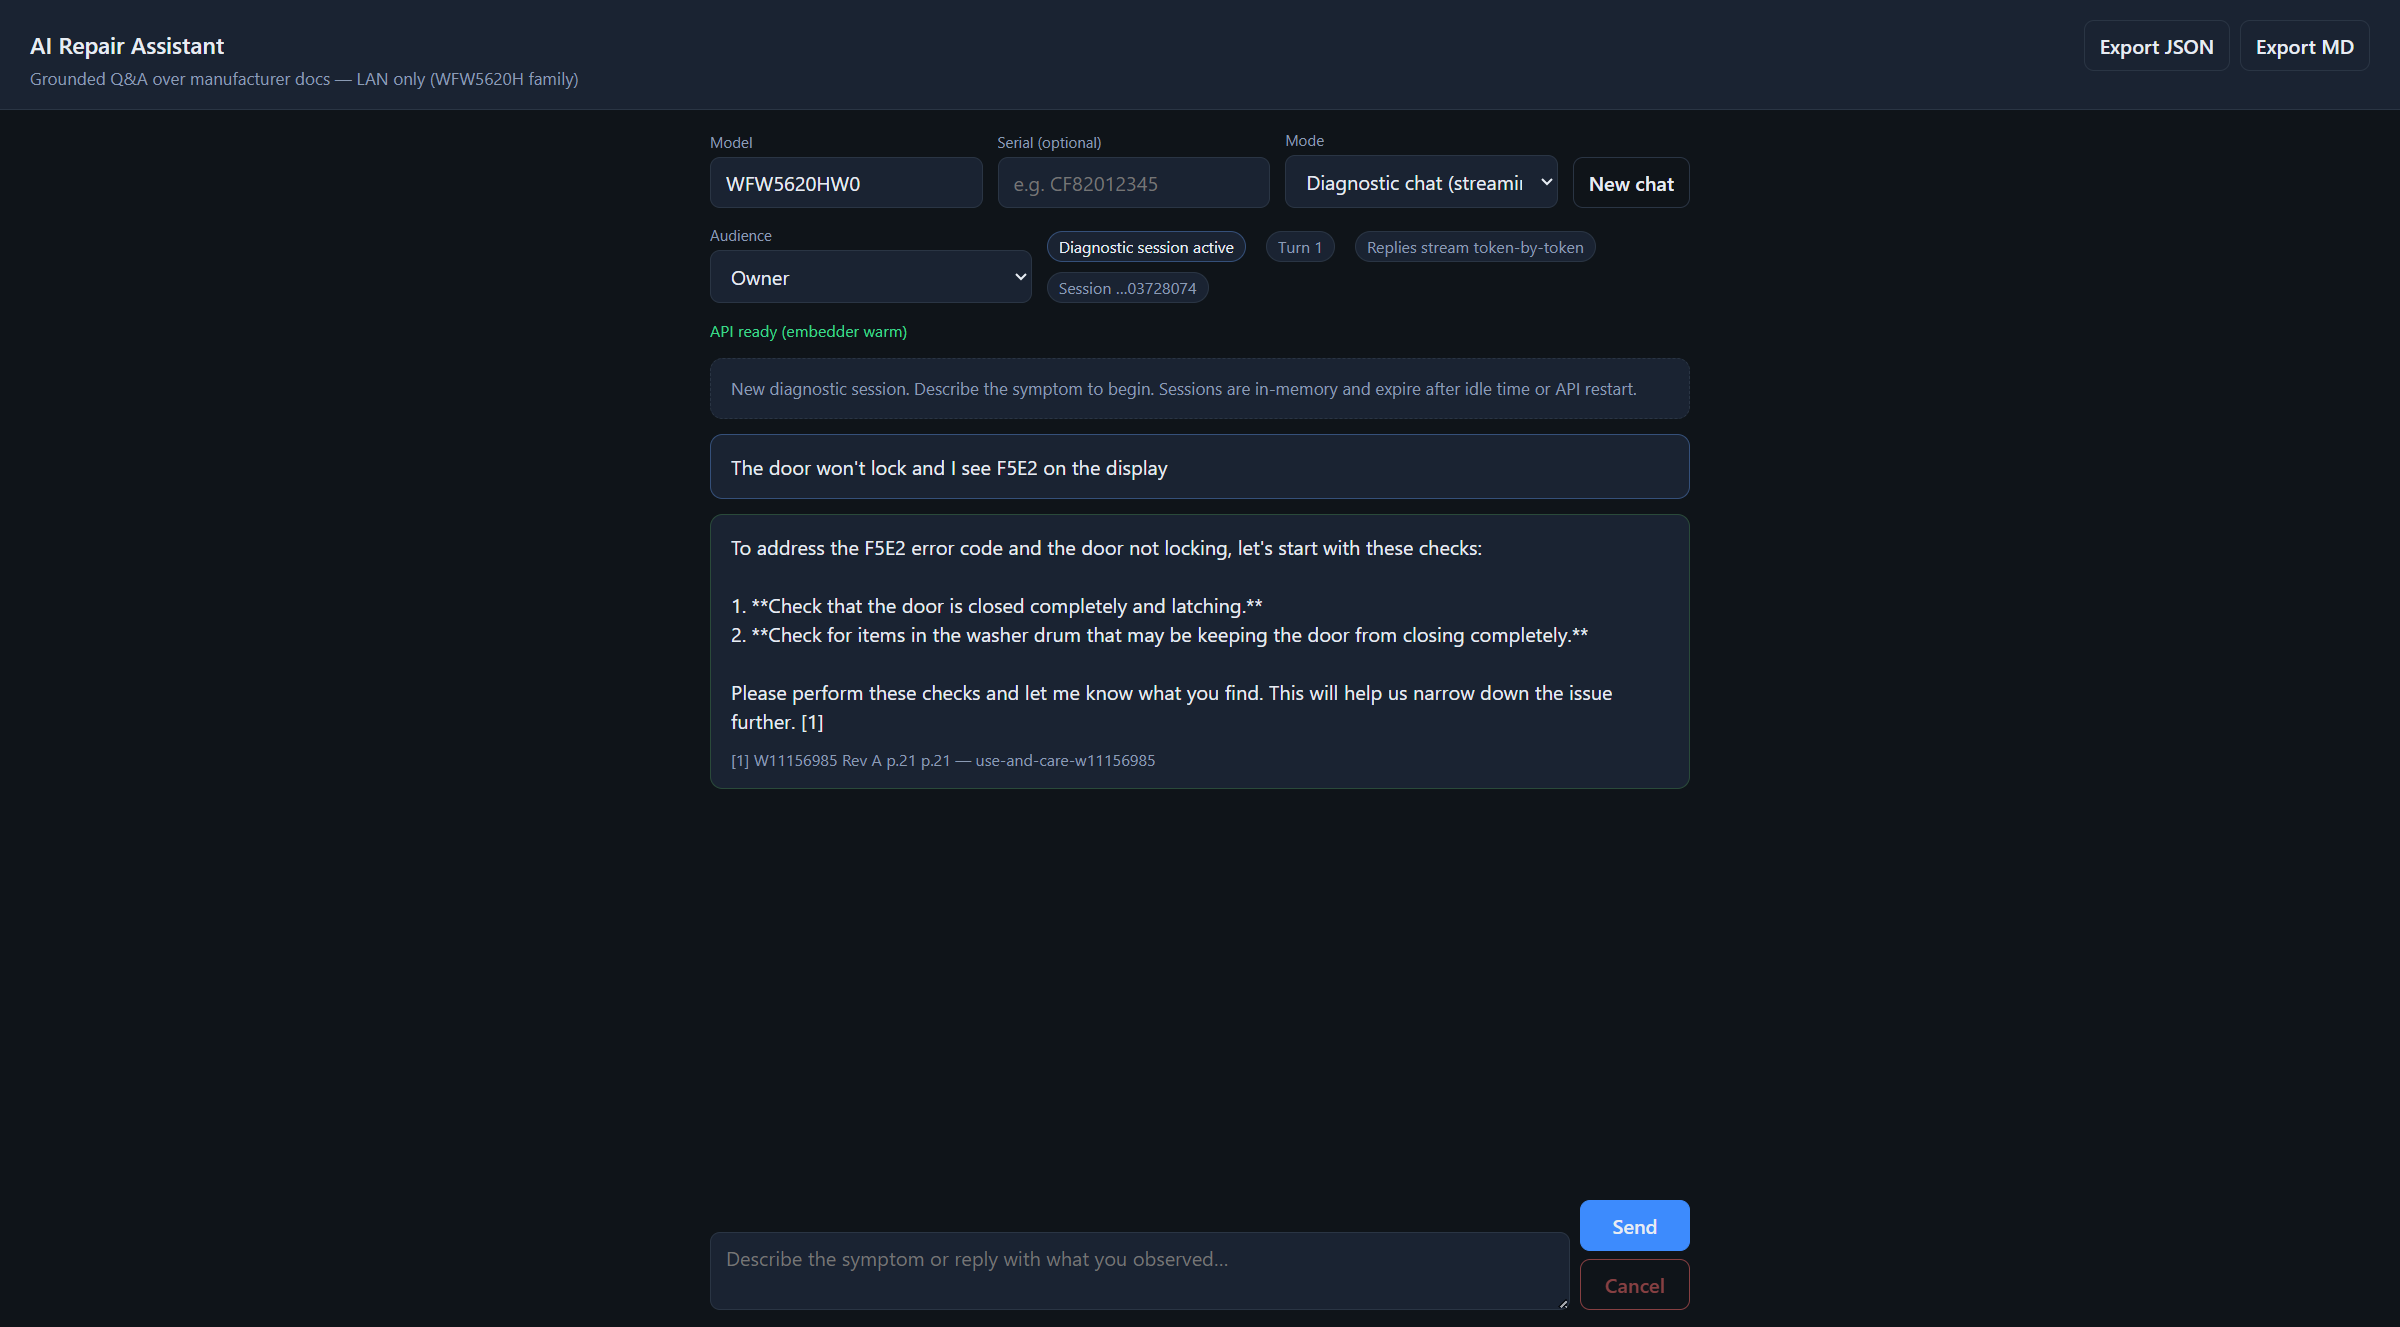
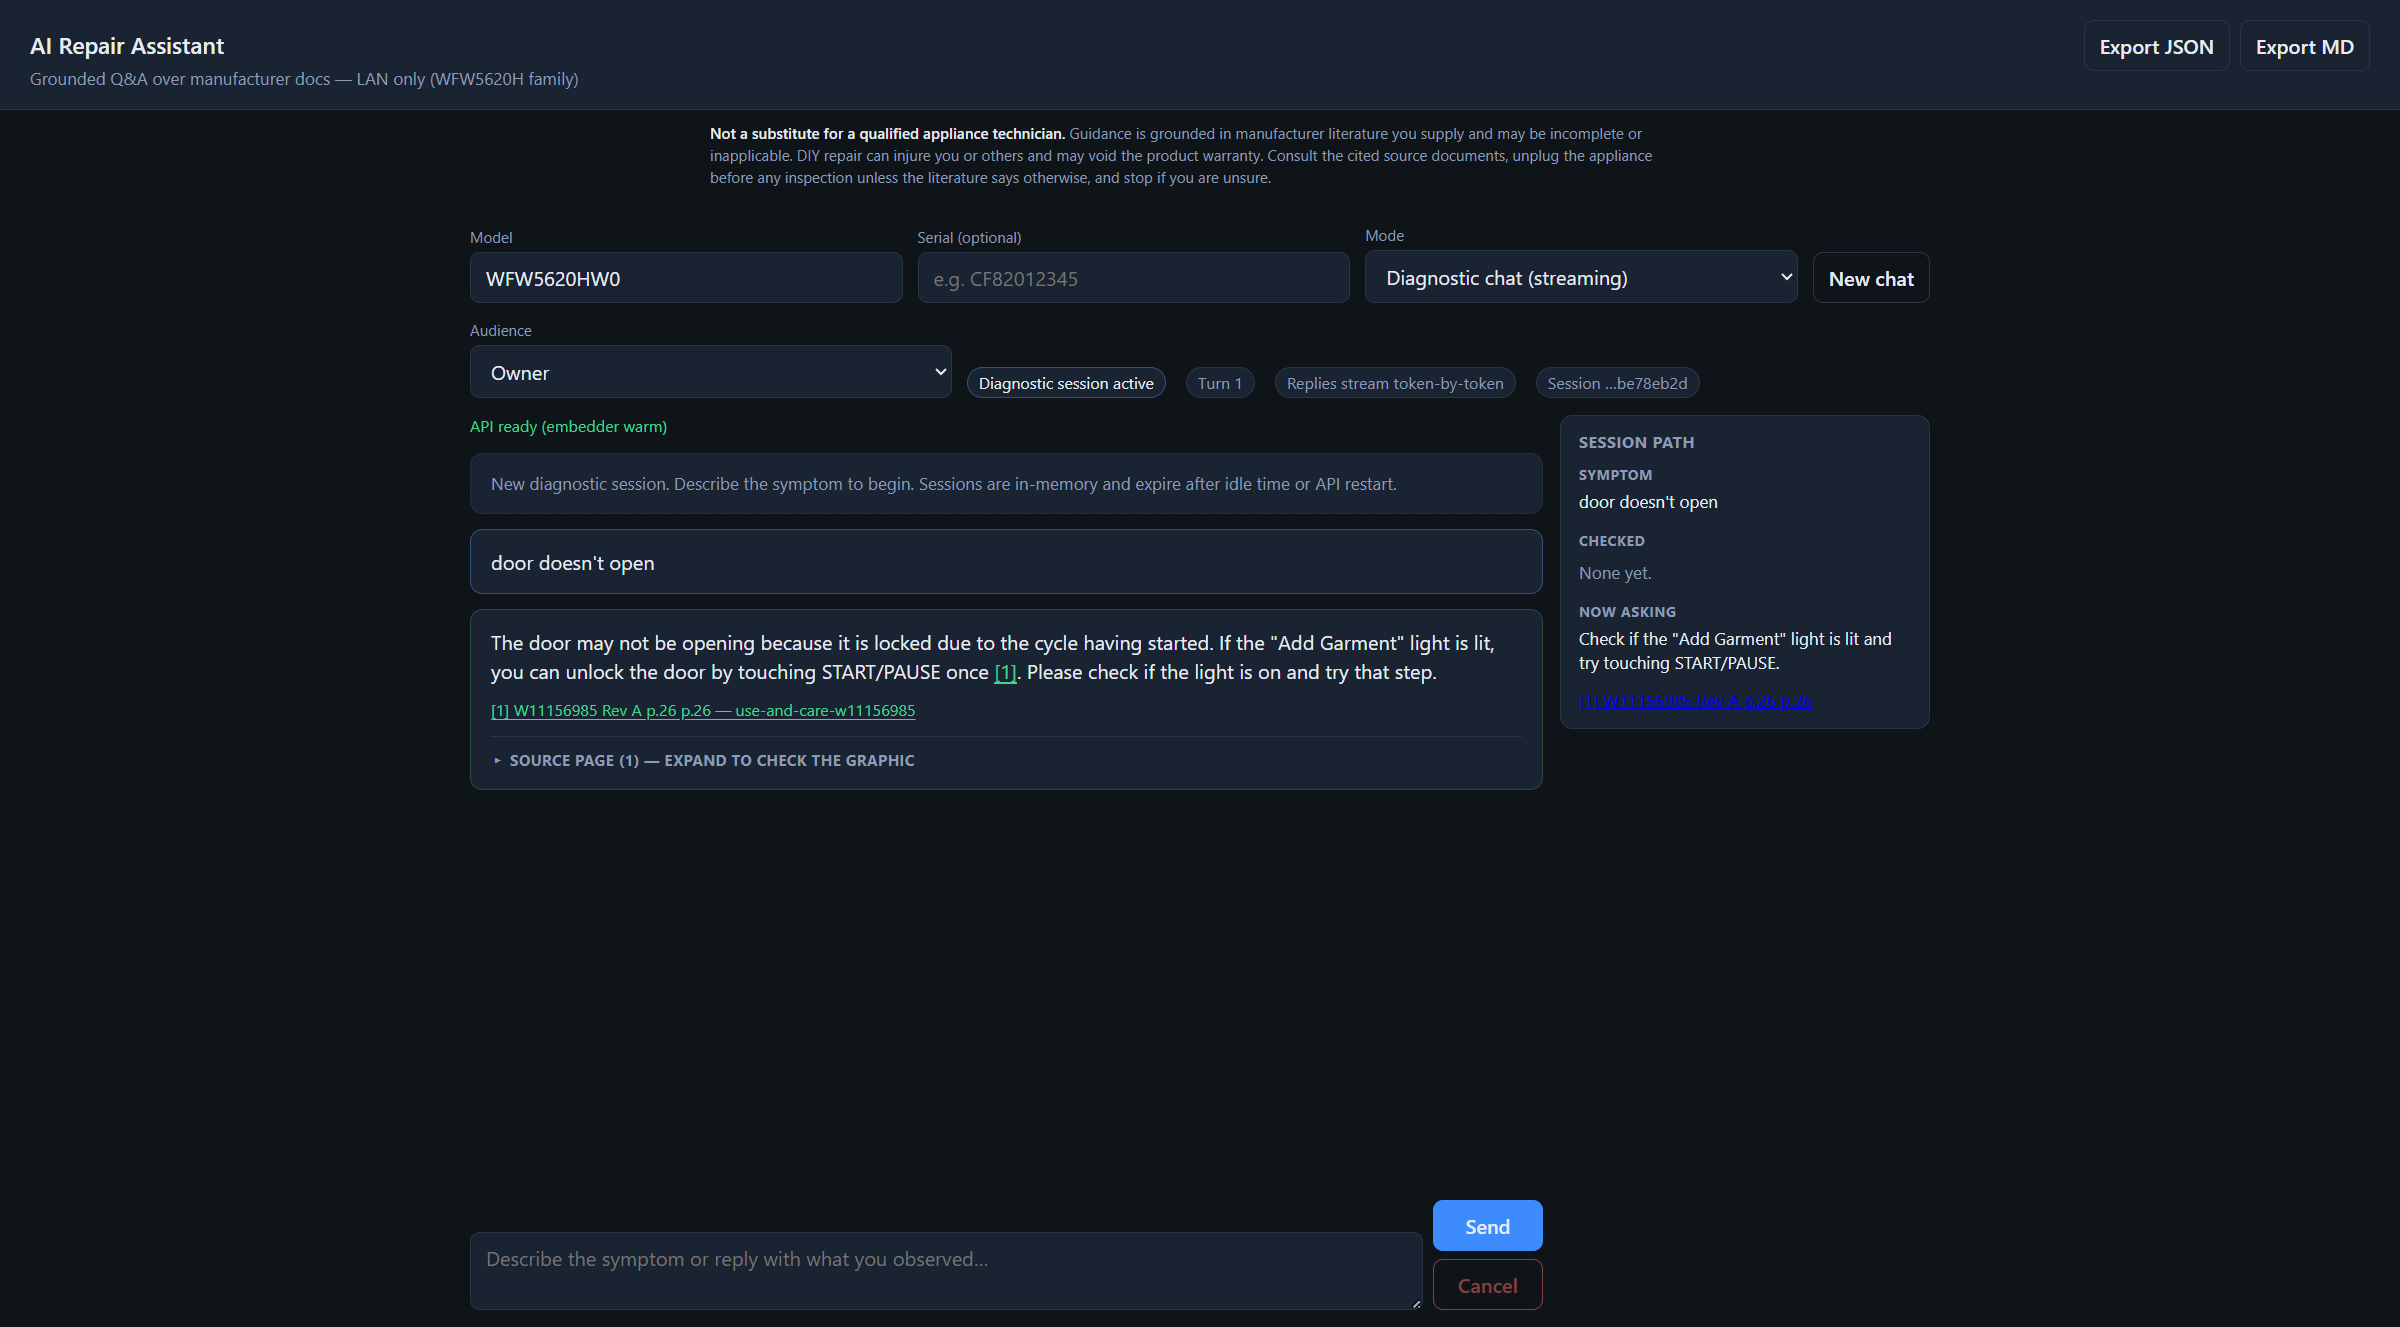
Refresh README diagnose screenshots for the session tally and page highlight.
Replace the old checklist shots with live /ui captures of the path panel, a follow-up with cleared checks, and the cited source-page overlay.

diff --git a/README.md b/README.md
@@ -53,7 +53,7 @@ flowchart LR
 - **Parsing** — hybrid page router (matrix / TOC / schematic / photo-access / multi-column), quality overrides ([ADR-0024](docs/adr/0024-hybrid-parse-architecture.md))
 - **Chunking** — table-row / matrix / contextual enrichment; Guide #1 title-case or ALL-CAPS anchors ([ADR-0007](docs/adr/0007-parser-and-chunker.md), [ADR-0022](docs/adr/0022-contextual-chunk-enrichment.md), [ADR-0042](docs/adr/0042-guide1-anchor-and-checklist-coalesce.md))
 - **Retrieval** — vector + codes/connectors, applicability, owner-preferring literature when feasible; door polarity is grammar, not slang YAML; same-problem rows coalesce into one citation ([ADR-0010](docs/adr/0010-retrieval-applicability.md), [ADR-0040](docs/adr/0040-door-polarity-grammar.md), [ADR-0041](docs/adr/0041-unlock-family-no-fault-code.md), [ADR-0042](docs/adr/0042-guide1-anchor-and-checklist-coalesce.md))
-- **Grounded Q&A / diagnose** — citations, abstain, checklist path discipline, gated source-page overlay ([ADR-0012](docs/adr/0012-grounded-qa.md), [ADR-0013](docs/adr/0013-langgraph-diagnostic.md), [ADR-0036](docs/adr/0036-ui-source-page-images.md))
+- **Grounded Q&A / diagnose** — citations, abstain, checklist path discipline, gated source-page overlay and row/prose highlight, diagnose session tally ([ADR-0012](docs/adr/0012-grounded-qa.md), [ADR-0013](docs/adr/0013-langgraph-diagnostic.md), [ADR-0036](docs/adr/0036-ui-source-page-images.md)–[ADR-0038](docs/adr/0038-paragraph-highlight.md), [ADR-0044](docs/adr/0044-diagnose-session-tally.md))
 - **Safety** — block / escalate / post-LLM gates; owner vs technician ([ADR-0014](docs/adr/0014-safety-policy.md))
 - **Improve from traces** — Langfuse → `mine-traces` reports → human promote ([ADR-0018](docs/adr/0018-langfuse-observability.md), [ADR-0023](docs/adr/0023-trace-driven-eval-mining.md))
 
@@ -71,15 +71,21 @@ Grounded one-shot Q&A with numbered citation chips tied to manifest documents.
 
 ### Diagnose — owner checklist (turn 1)
 
-Multi-turn LangGraph diagnostic chat: session badge, streaming checklist steps, owner-safe citations.
+Session path tally (symptom, offered checks, citation chip), coalesced checklist, and the gated source page with a row highlight.
 
-![Owner diagnostic chat with checklist and citations](docs/images/ui-diagnose-checklist.png)
+![Owner diagnostic chat with session tally and source-page highlight](docs/images/ui-diagnose-checklist.png)
 
-### Diagnose — technician multi-turn (turn 2)
+### Diagnose — progress follow-up (turn 2)
 
-Same session, **Technician** audience: follow-up narrows to service-manual steps (continuity, wiring) with tech-sheet citations.
+After “checked / no issues,” the tally moves those steps to **Checked** and keeps the same `[n]` while the chat continues the path.
 
-![Technician multi-turn diagnostic chat at turn 2](docs/images/ui-diagnose-tech-multiturn.png)
+![Diagnose follow-up with cleared checks on the session path](docs/images/ui-diagnose-tech-multiturn.png)
+
+### Diagnose — source-page highlight
+
+Click `[n]` or expand Source page to overlay the cited table row or prose span on the same JPEG the model saw.
+
+![Source page with cited-row highlight and session path](docs/images/ui-diagnose-highlight.png)
 
 ### Safety — escalate before unsafe guidance
 

diff --git a/docs/architecture/05-runtime-ask-diagnose.md b/docs/architecture/05-runtime-ask-diagnose.md
@@ -118,7 +118,7 @@ flowchart TD
 - **State:** Messages, appliance, evidence, citation pool, abstain / escalate flags ([ADR-0013](../adr/0013-langgraph-diagnostic.md)), plus an inspectable board (`step`, `phase`, `hypotheses`, `ruled_out`, `observations`) that is merged each turn and injected into the prompt ([ADR-0031](../adr/0031-structured-diagnostic-state.md)). On an acknowledgement (classify `ack` / `still_unresolved`, or `acks.py`), merge also records the prior `next_check`, numbered checklist items (one per line or inline `1. … 2. …`), and `TEST #N` names as `ruled_out` when the model omits them. Do not restart a cleared category from its first remedy. A See TEST pointer may be named once; after the user confirms it, respond closes by rule — do not call generate to repeat that TEST.
 - **NLU vs protocol:** Rules own the board, safety, applicability, and which OEM phrases may be appended. Turn 2+ classify returns a label only ([ADR-0039](../adr/0039-diagnose-retrieve-labels.md)). Progress follow-ups keep the last evidence pack so generate cannot hop books ([ADR-0043](../adr/0043-session-evidence-reuse.md)). Do not grow slang rows, a rule-only flowchart, or free query rewrite ([ADR-0034](../adr/0034-diagnose-nlu-split.md)). Regex / `acks.py` stay as fallback.
 - **Session:** In-memory `SessionStore` with TTL and max sessions — not durable across API restart ([ADR-0021](../adr/0021-api-hardening-embedder-sessions.md)).
-- **API:** `POST /v1/diagnose`, `/v1/diagnose/stream` with `session_id` ([ADR-0016](../adr/0016-http-api-docker.md)). JSON and the stream `done` event include a computed `tally` (symptom, cleared checks, next or closed, session citation chip) for `/ui` ([ADR-0044](../adr/0044-diagnose-session-tally.md)). The panel is read-only; it does not pick the next step.
+- **API:** `POST /v1/diagnose`, `/v1/diagnose/stream` with `session_id` ([ADR-0016](../adr/0016-http-api-docker.md)). JSON and the stream `done` event include a computed `tally` (symptom, cleared checks, this turn’s offered checks, next or closed, session citation chip) for `/ui` ([ADR-0044](../adr/0044-diagnose-session-tally.md)). The panel is read-only; it does not pick the next step.
 
 **Modules:** `diagnostic/graph.py`, `diagnostic/session.py`, `diagnostic/state.py`
 

diff --git a/docs/INFRASTRUCTURE.md b/docs/INFRASTRUCTURE.md
@@ -75,7 +75,8 @@ to reach Postgres on the LAN host.
 
 Endpoints: `GET /health`, `GET /ready`, `POST /v1/search`, `/v1/ask`, `/v1/diagnose`
 (ADR-0016), plus `GET /v1/documents/{doc_id}/pages/{page}/image` for the
-source-page JPEG shown in `/ui` (ADR-0036 / ADR-0037). No API key required
+source-page JPEG and row/prose highlight in `/ui` (ADR-0036–0038). Diagnose
+shows a read-only session path tally (ADR-0044). No API key required
 (`REPAIR_API_KEY` empty, D8).
 
 **Optional:** run the API as a Docker container on the LAN host — see

diff --git a/docs/DEPLOYMENT.md b/docs/DEPLOYMENT.md
@@ -57,7 +57,7 @@ Open **http://localhost:8080/ui** in your browser.
 
 | URL | Purpose |
 | --- | --- |
-| `http://localhost:8080/ui` | Web chat (ask stream + diagnose + search) |
+| `http://localhost:8080/ui` | Web chat (ask stream + diagnose + search). Diagnose shows a read-only session path tally. |
 | `http://localhost:8080/health` | Liveness |
 | `http://localhost:8080/ready` | DB + embedder + session count (Phase 10) |
 | `http://localhost:8080/v1/ask` | Non-streaming grounded answer |
